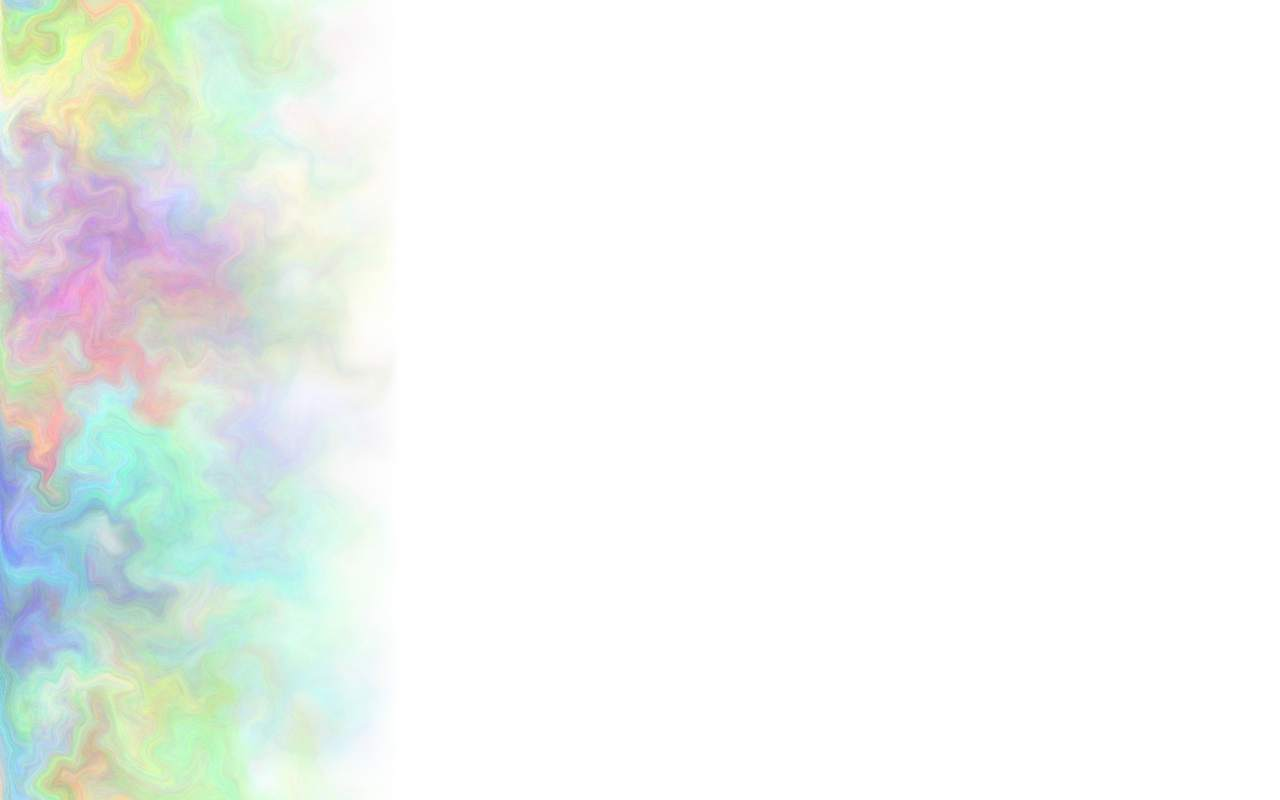
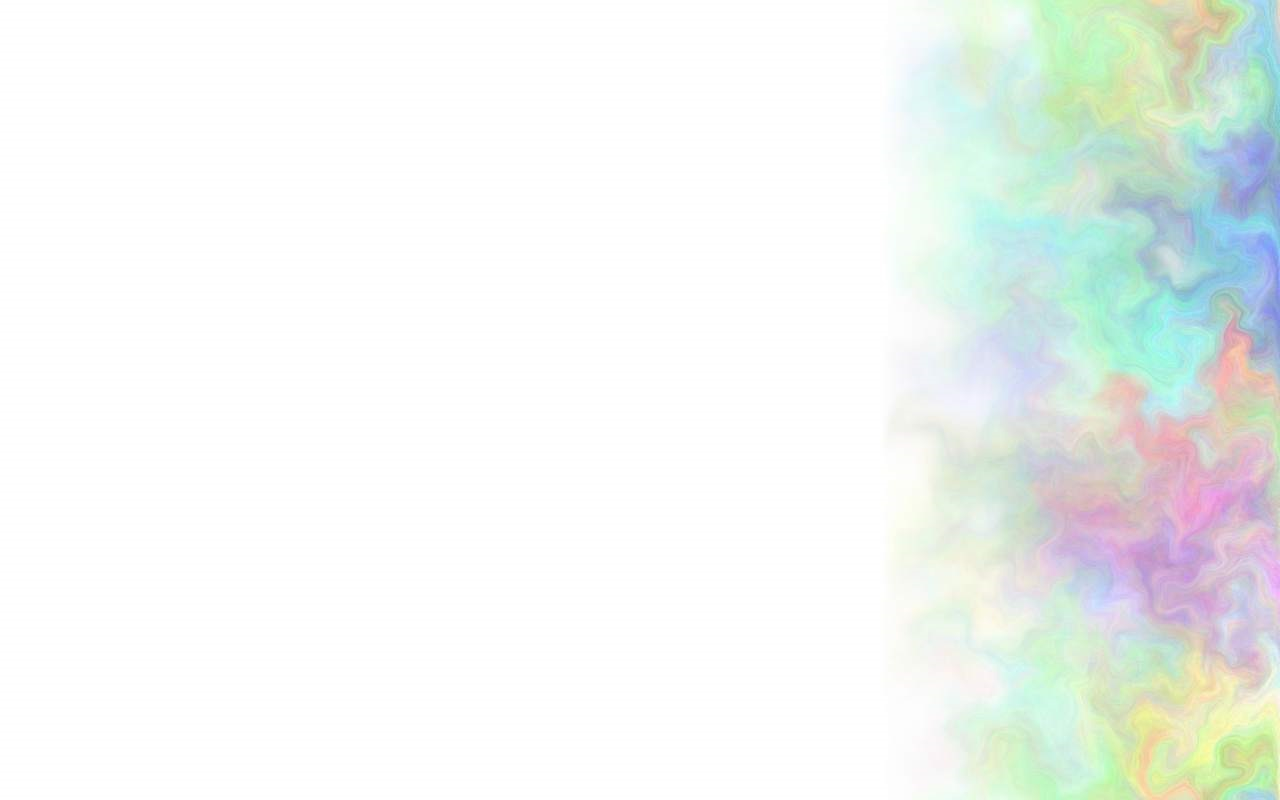
final adjustments

diff --git a/tracker/app/assets/stylesheets/welcome.scss b/tracker/app/assets/stylesheets/welcome.scss
@@ -7,13 +7,29 @@
 body {
   /*font-family: 'Open Sans', sans-serif;
   color: #222;*/
-  background-image: url("background_2.jpg");
-  //background-repeat: no-repeat;
-  //background-size: cover;
-  max-width: 100%;
-  max-height: 100vh;
-  margin: auto;
+  //background-image: url("background_2.jpg");
+  background-repeat: no-repeat;
+  background: url("background.jpg");
+  background-size: auto;
+  //background-position: center center;
+  width: 100%;
+  height: 100%;
+  //max-width: 100%;
+  //max-height: 100vh;
+  //margin: auto;
 }
+//
+//.fondo{
+//  //background-image: url("background_2.jpg");
+//  //background-attachment: linear-gradient( white, lightseagreen);
+//  //background-repeat: no-repeat;
+//  //background-size: auto;
+//  background: linear-gradient(#2E2F30, white);
+//  width: 100%;
+//  max-height: 100vh;
+//  margin: auto;
+//}
+
 
 #home {
   display: block;

diff --git a/tracker/config/environments/production.rb b/tracker/config/environments/production.rb
@@ -28,7 +28,9 @@ Rails.application.configure do
   # config.assets.css_compressor = :sass
 
   # Do not fallback to assets pipeline if a precompiled asset is missed.
-  config.assets.compile = false
+  config.assets.compile = true
+  config.serve_static_assets = true
+
 
   # `config.assets.precompile` and `config.assets.version` have moved to config/initializers/assets.rb
 

diff --git a/tracker/db/schema.rb b/tracker/db/schema.rb
@@ -10,7 +10,7 @@
 #
 # It's strongly recommended that you check this file into your version control system.
 
-ActiveRecord::Schema.define(version: 20180511212318) do
+ActiveRecord::Schema.define(version: 20180512011849) do
 
   create_table "activities", force: :cascade do |t|
     t.string "title"
